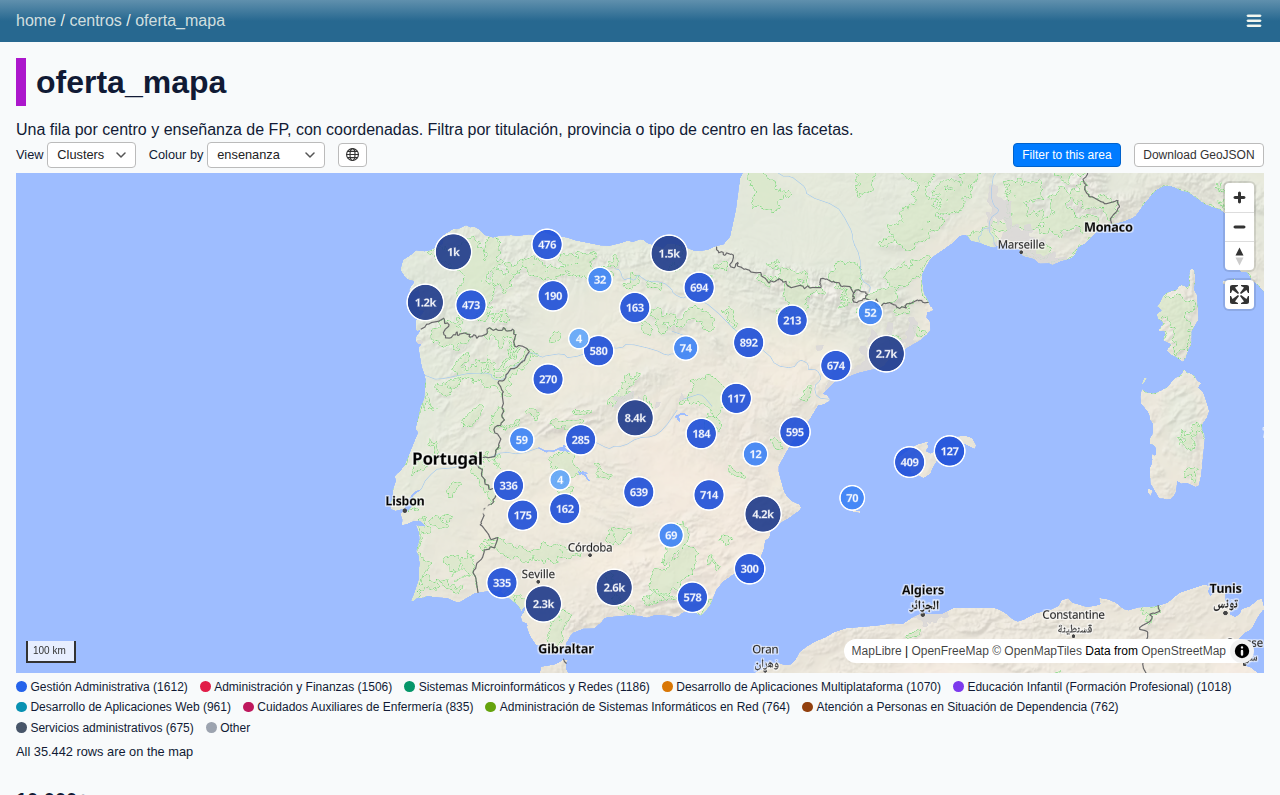
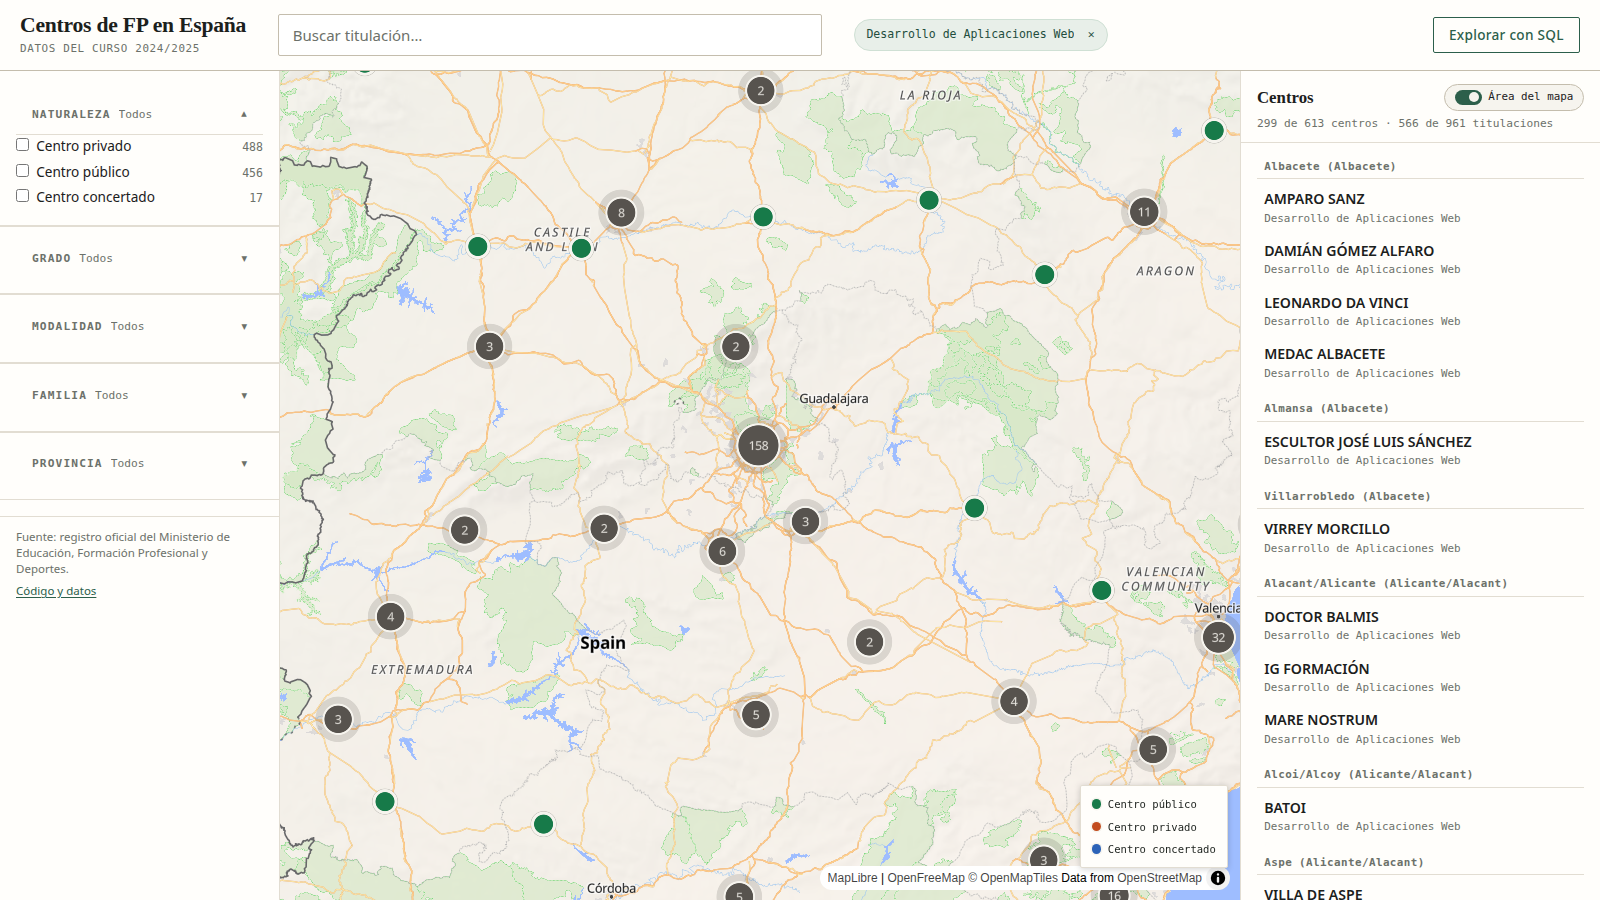
docs(readme): pantallazo de la web nueva en La web
docs/mapa.png pasaba de capturar el mapa de Datasette Lite a la
web propia: 1600x900 con 'Desarrollo de Aplicaciones Web'
filtrada, puntos coloreados por naturaleza (verde público, teja
privado, azul concertado), leyenda, facetas desplegables y lista
recortada al encuadre con los conteos 'N de M'.

La imagen se muda de la sección de Datasette Lite a 'La web' y su
enlace apunta a la URL de Pages en vez de a lite.datasette.io:
el pantallazo debe enseñar la puerta principal.

diff --git a/README.md b/README.md
@@ -8,6 +8,8 @@ distintas**, sacados del registro oficial del Ministerio de Educación.
 
 **[https://pcaro.github.io/todo-fp-map/](https://pcaro.github.io/todo-fp-map/)**
 
+[![Mapa de los centros de FP en España](docs/mapa.png)](https://pcaro.github.io/todo-fp-map/)
+
 Datos del curso 2024/2025. Sin instalación y sin backend: es una página
 estática en GitHub Pages. El navegador baja la base de datos comprimida
 (1,02 MB gzip), la abre con SQLite compilado a WebAssembly (sql.js) dentro de
@@ -37,8 +39,6 @@ Datasette.
 |---|---|---|
 | **Por titulación** | 35.442 filas: un centro y una titulación de FP por fila. Es la vista para responder *"¿dónde se estudia X?"* | **[Abrir el mapa →](https://lite.datasette.io/?install=datasette-maplibre&s.settings.max_returned_rows=40000&s.plugins.datasette-maplibre.container=div.metadata-description&url=https://gist.githubusercontent.com/pcaro/266193048dfaef5cdc7e9d494f2cb207/raw/centros.sqlite&metadata=https://gist.githubusercontent.com/pcaro/266193048dfaef5cdc7e9d494f2cb207/raw/metadata.yml#/centros/oferta_mapa?_facet=ensenanza&_facet=provincia&_facet=naturaleza&_facet_size=8%23map=4.9/40.3/-3.6&color=ensenanza)** |
 | **Por centro** | 4.646 puntos, un centro por fila, con `n_ensenanzas` (cuántas titulaciones de FP imparte) | **[Abrir el mapa →](https://lite.datasette.io/?install=datasette-maplibre&s.settings.max_returned_rows=40000&s.plugins.datasette-maplibre.container=div.metadata-description&url=https://gist.githubusercontent.com/pcaro/266193048dfaef5cdc7e9d494f2cb207/raw/centros.sqlite&metadata=https://gist.githubusercontent.com/pcaro/266193048dfaef5cdc7e9d494f2cb207/raw/metadata.yml#/centros/mapa?_facet=provincia&_facet_size=8%23map=4.9/40.3/-3.6&color=provincia)** |
-
-[![Mapa de los centros de FP en España](docs/mapa.png)](https://lite.datasette.io/?install=datasette-maplibre&s.settings.max_returned_rows=40000&s.plugins.datasette-maplibre.container=div.metadata-description&url=https://gist.githubusercontent.com/pcaro/266193048dfaef5cdc7e9d494f2cb207/raw/centros.sqlite&metadata=https://gist.githubusercontent.com/pcaro/266193048dfaef5cdc7e9d494f2cb207/raw/metadata.yml#/centros/oferta_mapa?_facet=ensenanza&_facet=provincia&_facet=naturaleza&_facet_size=8%23map=4.9/40.3/-3.6&color=ensenanza)
 
 ## Cómo usarlo
 
